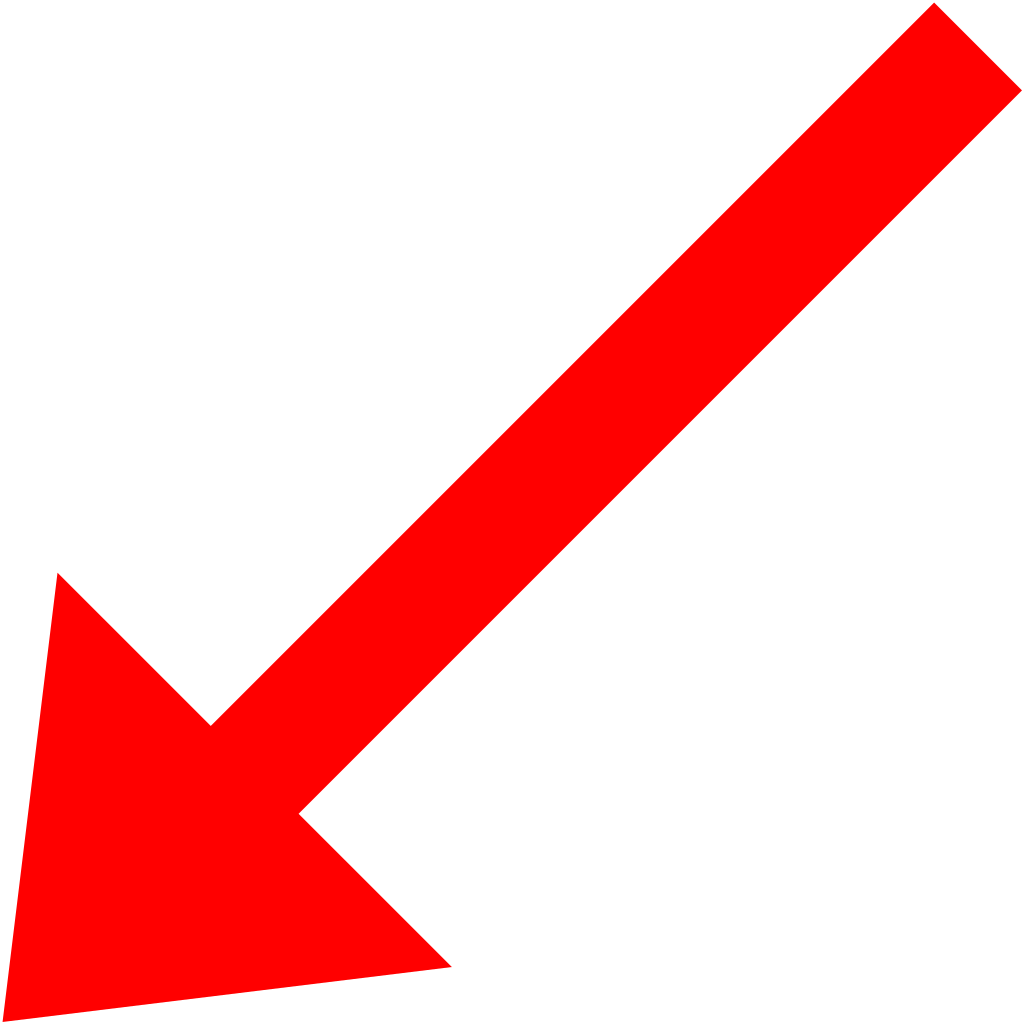
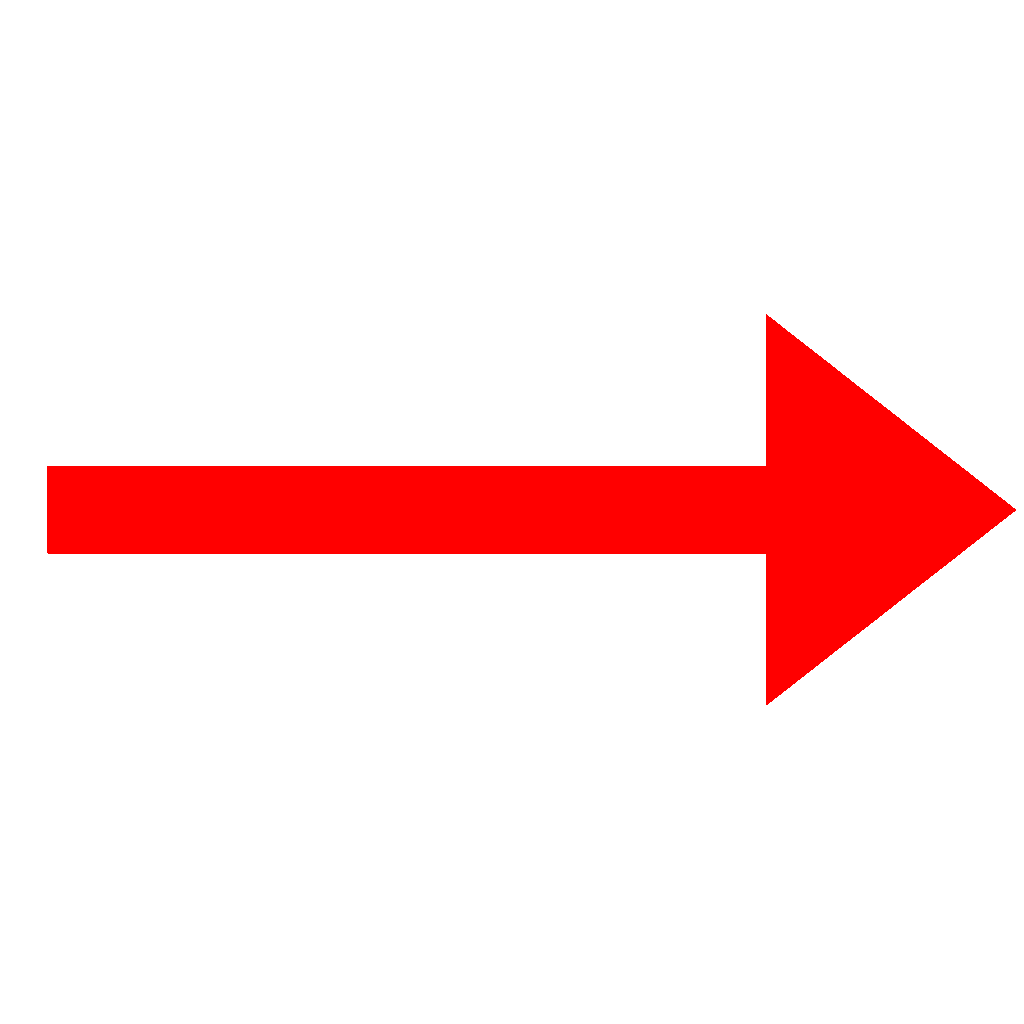
59 fix wind direction function rotation with correct package name

Changed region(s): [[0.0, 0.0, 1.0, 1.0]]

diff --git a/src/main/java/fr/ensicaen/elgama/model/BoatModel.java b/src/main/java/fr/ensicaen/elgama/model/BoatModel.java
@@ -1,6 +1,6 @@
 package fr.ensicaen.elgama.model;
 
-import fr.ensicaen.elgama.model.game_board.IWind;
+import fr.ensicaen.elgama.model.game_board.Wind;
 import fr.ensicaen.elgama.model.sailboat.PolarReader;
 
 import javafx.geometry.Point2D;
@@ -37,7 +37,7 @@ public class BoatModel {
         return _dy;
     }
 
-    public void move(PolarReader speedTable, IWind wind) {
+    public void move(PolarReader speedTable, Wind wind) {
         Point2D speedDir = angleToVector(_anglePositive);
         Point2D speed = speedDir.multiply(getBoatSpeed(speedTable, wind));
         _dx = speed.getX();
@@ -50,7 +50,7 @@ public class BoatModel {
         return new Point2D(Math.sin(angle * Math.PI / 180), -Math.cos(angle * Math.PI / 180));
     }
 
-    public double getBoatSpeed(PolarReader speedTable, IWind wind) {
+    public double getBoatSpeed(PolarReader speedTable, Wind wind) {
         float strength = wind.getWindStrength();
         int strengthRounded;
         if (strength > 30) {
@@ -62,7 +62,7 @@ public class BoatModel {
         }
         int strengthIndex = strengthRounded / 2 - 2;
 
-        java.awt.geom.Point2D windDir = wind.getWindDirection();
+        java.awt.geom.Point2D windDir = wind.getWindDirectionPoint2D();
         Point2D boatDir = angleToVector(_anglePositive);
         double diffAngle = 180 - boatDir.angle(windDir.getX(), windDir.getY());
         int angleRounded = (int) Math.round(diffAngle / 10) * 10;

diff --git a/src/test/java/fr/ensicaen/elgama/model/map/RandomWindTest.java b/src/test/java/fr/ensicaen/elgama/model/map/RandomWindTest.java
@@ -1,7 +1,7 @@
 package fr.ensicaen.elgama.model.map;
 
 import fr.ensicaen.elgama.model.game_board.RandomWind;
-import fr.ensicaen.elgama.model.game_board.IWind;
+import fr.ensicaen.elgama.model.game_board.Wind;
 import org.junit.jupiter.api.Test;
 
 import java.awt.geom.Point2D;
@@ -11,15 +11,15 @@ import static org.junit.jupiter.api.Assertions.*;
 
 public class RandomWindTest {
     @Test
-    void getWindForceTest() {
-        IWind wind = new RandomWind();
-        float windForce = wind.getWindStrength();
-        assertTrue((16>windForce));
+    void getWindStrengthTest() {
+        Wind wind = new RandomWind();
+        float windStrength = wind.getWindStrength();
+        assertTrue((16>windStrength));
     }
     @Test
     void getWindDirectionTest() {
-        IWind wind = new RandomWind();
-        Point2D dir = wind.getWindDirection();
+        Wind wind = new RandomWind();
+        Point2D dir = wind.getWindDirectionPoint2D();
         double norm = dir.distance(0,0);
         assertTrue(norm<1.01 && norm>0.99);
     }

diff --git a/src/main/java/fr/ensicaen/elgama/model/game_board/Board.java b/src/main/java/fr/ensicaen/elgama/model/game_board/Board.java
@@ -3,12 +3,12 @@ package fr.ensicaen.elgama.model.game_board;
 import java.awt.geom.Point2D;
 
 public class Board {
-    private final IWind _wind;
+    private final Wind _wind;
     private final Shoreline _shore;
     private final Buoy[] _buoyList;
     private final CheckPoint[] _checkPointList;
 
-    public Board(IWind wind, Shoreline shore, Buoy[] buoyList, CheckPoint[] checkPointList) {
+    public Board(Wind wind, Shoreline shore, Buoy[] buoyList, CheckPoint[] checkPointList) {
         _wind = wind;
         _shore = shore;
         _buoyList = buoyList;
@@ -16,10 +16,10 @@ public class Board {
     }
 
     public Point2D getWindDirection() {
-        return _wind.getWindDirection();
+        return _wind.getWindDirectionPoint2D();
     }
 
-    public float getWindForce() { return _wind.getWindStrength(); }
+    public float getWindStrength() { return _wind.getWindStrength(); }
 
     public Object accept(IBoardElementVisitor visitor, Object o) {
         Object result = _shore.accept(visitor, o);

diff --git a/src/main/java/fr/ensicaen/elgama/view/ConfigView.java b/src/main/java/fr/ensicaen/elgama/view/ConfigView.java
@@ -37,7 +37,6 @@ public class ConfigView implements IConfigView {
 
     public static class ConfigViewFactory {
         private ConfigViewFactory() {
-            // Factory class as Utility class where the constructor is private
         }
 
         public static ConfigView createView( ) throws IOException {
@@ -45,9 +44,9 @@ public class ConfigView implements IConfigView {
             Parent root = loader.load();
             ConfigView view = loader.getController();
             Scene scene = new Scene(root, 800, 600);
-            view._stage = new Stage(); // FIXME _state est un attribut statique -> utiliser la classe pour y accéder
-            view._stage.setTitle(Main.getMessageBundle().getString("project.title"));
-            view._stage.setScene(scene);
+            _stage = new Stage();
+            _stage.setTitle(Main.getMessageBundle().getString("project.title"));
+            _stage.setScene(scene);
             return view;
         }
     }

diff --git a/src/main/java/fr/ensicaen/elgama/view/GameView.java b/src/main/java/fr/ensicaen/elgama/view/GameView.java
@@ -60,10 +60,8 @@ public class GameView implements IGameView {
     }
 
     @Override
-    public void setWind(Point2D direction) {
-        javafx.geometry.Point2D imageDirection = new javafx.geometry.Point2D(-1,1);
-        javafx.geometry.Point2D newWindDirection = new javafx.geometry.Point2D(direction.getX(),direction.getY());
-        _windImage.setRotate(-imageDirection.angle(newWindDirection));
+    public void setWind(double windDirection, float strength) {
+        _windImage.setRotate(windDirection);
     }
 
     public void show() {
@@ -86,7 +84,6 @@ public class GameView implements IGameView {
 
     public static class GameViewFactory {
         private GameViewFactory() {
-            // Factory class as Utility class where the constructor is private
         }
 
         public static GameView createView() throws IOException {

diff --git a/src/main/java/fr/ensicaen/elgama/presenter/GamePresenter.java b/src/main/java/fr/ensicaen/elgama/presenter/GamePresenter.java
@@ -13,7 +13,7 @@ import java.awt.geom.Point2D;
 public class GamePresenter {
     private final PlayerModel _playerModel;
     private final PolarReader _speedTable;
-    private final IWind _wind;
+    private final Wind _wind;
     private BoatModel _boatModel;
     private IGameView _gameView;
     private boolean _started = false;
@@ -34,7 +34,7 @@ public class GamePresenter {
         Buoy[] buoyList = {new Buoy(new Point2D.Double(500, 100), 20)};
         CheckPoint[] cpList = {};
         _gameView.drawWaterBody(new Board(new RandomWind(), new Shoreline(100, 'w'), buoyList, cpList));
-        _gameView.setWind(_wind.getWindDirection());
+        _gameView.setWind(_wind.getWindDirectionDouble(), _wind.getWindStrength());
     }
 
     public void handleUserAction(UserAction code) {

diff --git a/src/main/java/fr/ensicaen/elgama/model/game_board/Wind.java b/src/main/java/fr/ensicaen/elgama/model/game_board/Wind.java
@@ -1,0 +1,15 @@
+package fr.ensicaen.elgama.model.game_board;
+
+import java.awt.geom.Point2D;
+
+public abstract class Wind {
+    public abstract float getWindStrength();
+    public abstract double getWindDirectionDouble();
+    public abstract Point2D getWindDirectionPoint2D();
+    public static double windDirectionAngle(Point2D windDir) {
+        javafx.geometry.Point2D imageDirection = new javafx.geometry.Point2D(1,0);
+        javafx.geometry.Point2D newWindDirection = new javafx.geometry.Point2D(windDir.getX(),windDir.getY());
+        double sign = Math.signum(newWindDirection.crossProduct(imageDirection).getZ());
+        return -Math.copySign(imageDirection.angle(newWindDirection),sign);
+    }
+}

diff --git a/src/main/java/fr/ensicaen/elgama/model/game_board/RandomWind.java b/src/main/java/fr/ensicaen/elgama/model/game_board/RandomWind.java
@@ -5,7 +5,7 @@ import java.util.ArrayList;
 import java.util.Collections;
 import java.util.List;
 
-public class RandomWind implements IWind {
+public class RandomWind extends Wind {
 
     final private float _strength;
 
@@ -22,8 +22,13 @@ public class RandomWind implements IWind {
     }
 
     @Override
-    public Point2D getWindDirection() {
+    public Point2D getWindDirectionPoint2D() {
         return _direction;
+    }
+
+    @Override
+    public double getWindDirectionDouble() {
+        return Wind.windDirectionAngle(_direction);
     }
 
     public Point2D createWindDirection() {

diff --git a/src/main/java/fr/ensicaen/elgama/view/LoginView.java b/src/main/java/fr/ensicaen/elgama/view/LoginView.java
@@ -46,8 +46,6 @@ public class LoginView implements ILoginView {
 
     public static class LoginViewFactory {
         private LoginViewFactory() {
-            // Factory class as Utility class where the constructor is private
-            // FIXME supprimer ce commentaire devenu inutile. Il n'avait qu'un vertue pédagogique
         }
 
         public static LoginView createView() throws IOException {

diff --git a/src/main/java/fr/ensicaen/elgama/view/StartView.java b/src/main/java/fr/ensicaen/elgama/view/StartView.java
@@ -36,7 +36,6 @@ public class StartView implements IStartView {
 
     public static class StartViewFactory {
         private StartViewFactory() {
-            // Factory class as Utility class where the constructor is private
         }
 
         public static StartView createView(Stage primaryStage) throws IOException {

diff --git a/src/main/java/fr/ensicaen/elgama/presenter/IGameView.java b/src/main/java/fr/ensicaen/elgama/presenter/IGameView.java
@@ -11,5 +11,5 @@ public interface IGameView {
 
     void updateBoat(double dx, double dy, double angle);
 
-    void setWind(Point2D direction);
+    void setWind(double direction, float strength);
 }
